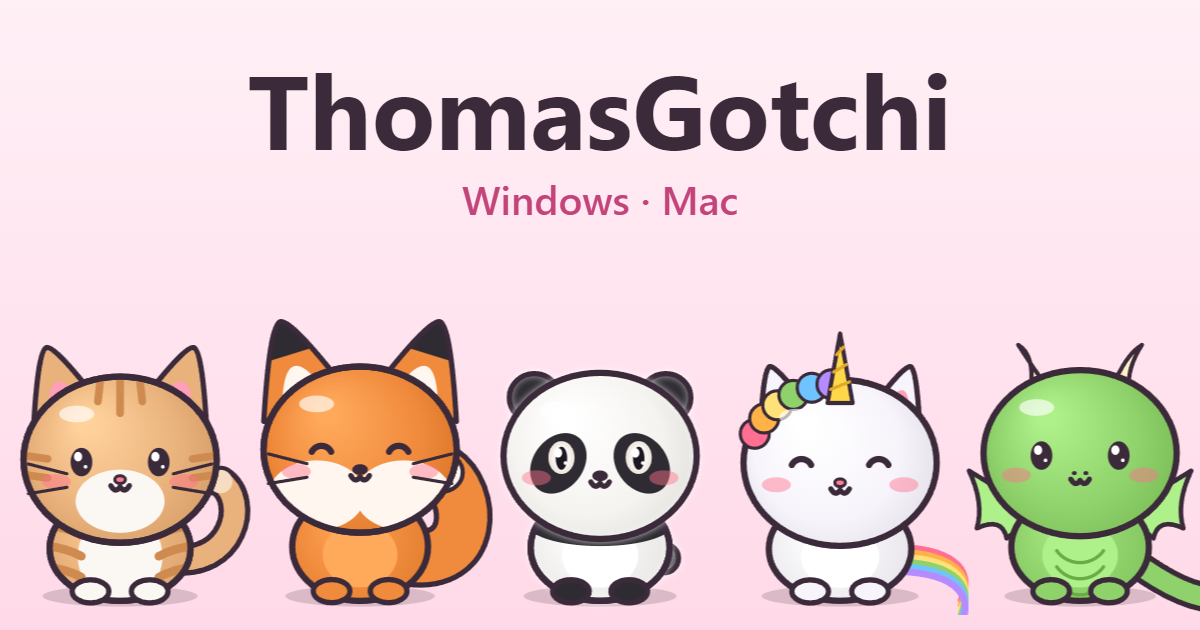
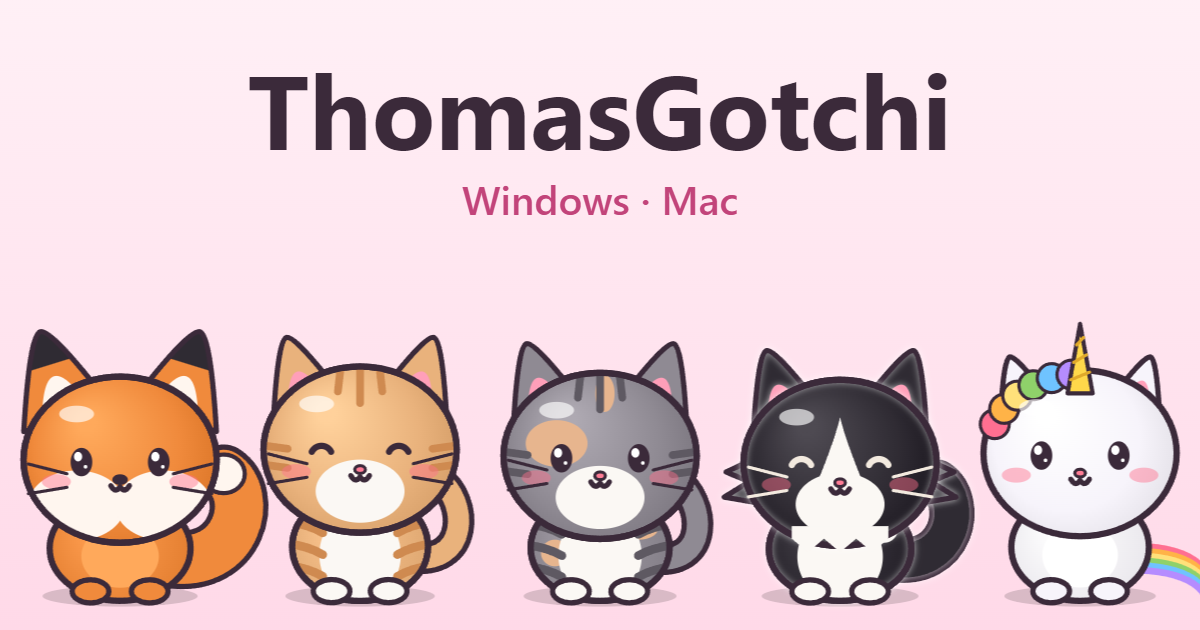
Version 2.3.2
- Menu de l'icône : « Donner un fichier à manger… » (choix dans une fenêtre) ; sur Mac, on peut aussi déposer des fichiers sur l'icône de la barre des menus
- Menu de l'icône : lien vers le site internet
- « Cacher » cache aussi les crottes, le décor de fête, la pelote et la gamelle
- Site : les chats de la maison (Simba, Snoop, Grisette) en haut de page, dans une section avec leur fiche, sur l'image de partage et dans la scène d'Halloween

Changed region(s): [[0.0, 0.5127, 1.0, 0.9651]]

diff --git a/main.js b/main.js
@@ -183,15 +183,50 @@ function anyVisible() {
   return [...pets.values()].some((p) => alive(p) && p.win.isVisible());
 }
 
+// Cachés avec les animaux : crottes, décor de fête, pelote, gamelle (y compris ceux qui apparaissent pendant ce temps)
+let hiddenByUser = false;
+
+function objectWindows() {
+  const list = [...poopWindows.values()].map((poop) => poop.win);
+  if (decor) list.push(decor.win);
+  if (yarn) list.push(yarn.win);
+  if (furniture) list.push(...Object.values(furniture).map((f) => f.win));
+  return list.filter((w) => w && !w.isDestroyed());
+}
+
 function toggleVisible() {
   const show = !anyVisible();
+  hiddenByUser = !show;
   for (const p of pets.values()) {
     if (!alive(p)) continue;
     if (show) p.win.show(); else p.win.hide();
   }
+  for (const w of objectWindows()) if (show) w.showInactive(); else w.hide();
   if (show) keepOnTop();
   buildTrayMenu();
 }
+
+// Nourrir avec des fichiers choisis dans une fenêtre, ou déposés sur l'icône (Mac) :
+// seuls leur nom et leur taille sont lus, comme pour un fichier glissé sur l'animal
+function feedFiles(p, files) {
+  if (!alive(p)) return;
+  const meals = files.map((f) => {
+    try {
+      const st = fs.statSync(f);
+      return { name: path.basename(f), size: st.size, isDir: st.isDirectory() };
+    } catch { return null; }
+  }).filter(Boolean);
+  if (!meals.length) return;
+  p.win.show();
+  p.win.webContents.send('feed-files', meals);
+}
+
+async function chooseFood(p) {
+  const r = await dialog.showOpenDialog({ title: tr('Donner un fichier à manger'), properties: ['openFile', 'multiSelections'] });
+  if (!r.canceled) feedFiles(p, r.filePaths);
+}
+
+const siteUrl = () => 'https://thomasgotchi.mirimix.fr/' + (currentLang() === 'fr' ? '' : currentLang() + '/');
 
 function openSettings(p) {
   if (!alive(p)) return;
@@ -206,15 +241,25 @@ function buildTrayMenu() {
   const settings = list.length === 1
     ? { label: tr('Réglages…'), click: () => openSettings(list[0]) }
     : { label: tr('Réglages'), submenu: list.map((p) => ({ label: p.name || tr('Œuf'), click: () => openSettings(p) })) };
+  const food = list.length === 1
+    ? { label: tr('Donner un fichier à manger…'), click: () => chooseFood(list[0]) }
+    : { label: tr('Donner un fichier à manger'), submenu: list.map((p) => ({ label: p.name || tr('Œuf'), click: () => chooseFood(p) })) };
   tray.setContextMenu(Menu.buildFromTemplate([
     { label: `ThomasGotchi v${app.getVersion()}`, enabled: false },
+    { label: tr('Site internet 🌐'), click: () => shell.openExternal(siteUrl()) },
     { type: 'separator' },
     { label: tr(anyVisible() ? 'Cacher' : 'Afficher'), click: toggleVisible },
     {
       label: tr('Ramener au coin de l\'écran'),
-      click: () => list.forEach((p, i) => { const d = defaultPosition(i); placeWindow(p, d.x, d.y); if (alive(p)) p.win.show(); }),
+      click: () => {
+        list.forEach((p, i) => { const d = defaultPosition(i); placeWindow(p, d.x, d.y); if (alive(p)) p.win.show(); });
+        hiddenByUser = false;
+        for (const w of objectWindows()) w.showInactive();
+        buildTrayMenu();
+      },
     },
     settings,
+    food,
     { label: tr('Adopter un autre animal'), enabled: list.length < MAX_PETS, click: adoptPet },
     { label: tr(yarn ? 'Ranger la pelote de laine' : 'Sortir la pelote de laine 🧶'), click: toggleYarn },
     { label: tr('Gamelle 🥣'), type: 'checkbox', checked: !!furniture, click: () => (furniture ? removeFurniture() : spawnFurniture()) },
@@ -239,6 +284,11 @@ function createTray() {
   tray = new Tray(icon);
   tray.setToolTip(`ThomasGotchi v${app.getVersion()}`);
   if (!isMac) tray.on('click', toggleVisible);
+  // Mac : des fichiers déposés sur l'icône de la barre des menus sont donnés à manger au premier animal visible
+  tray.on('drop-files', (e, files) => {
+    const p = [...pets.values()].find((x) => alive(x) && x.win.isVisible()) || [...pets.values()].find(alive);
+    feedFiles(p, files);
+  });
   buildTrayMenu();
 }
 
@@ -645,6 +695,7 @@ function createPoop(owner, id, x, y, style, kind, edge) {
     hasShadow: false,
     focusable: false,
     alwaysOnTop: true,
+    show: !hiddenByUser,
     backgroundColor: '#00000000',
     webPreferences: {
       preload: path.join(__dirname, 'preload-poop.js'),
@@ -747,6 +798,7 @@ function spawnYarn() {
     hasShadow: false,
     focusable: false,
     alwaysOnTop: true,
+    show: !hiddenByUser,
     backgroundColor: '#00000000',
     webPreferences: {
       preload: path.join(__dirname, 'preload-yarn.js'),
@@ -860,7 +912,7 @@ function updateDecor() {
   win.once('ready-to-show', () => {
     if (win.isDestroyed()) return;
     win.setBackgroundColor('#00000000');
-    win.showInactive();
+    if (!hiddenByUser) win.showInactive();
   });
   win.loadFile(path.join(__dirname, 'src', 'decor.html'), { query: { kind } });
   decor = { win, kind };
@@ -901,7 +953,7 @@ function createFurnitureWindow(kind, x) {
     x: Math.round(Math.min(Math.max(x - w / 2, wa.x), wa.x + wa.width - w)),
     y: wa.y + wa.height - h,
     transparent: true, frame: false, resizable: false, maximizable: false, minimizable: false, fullscreenable: false,
-    skipTaskbar: true, hasShadow: false, focusable: false, alwaysOnTop: true, backgroundColor: '#00000000',
+    skipTaskbar: true, hasShadow: false, focusable: false, alwaysOnTop: true, show: !hiddenByUser, backgroundColor: '#00000000',
     webPreferences: { preload: path.join(__dirname, 'preload-furniture.js'), contextIsolation: true, nodeIntegration: false },
   });
   win.setAlwaysOnTop(true, 'floating');

diff --git a/site/style.css b/site/style.css
@@ -162,19 +162,21 @@ img { max-width: 100%; }
 .animal img { width: 100%; aspect-ratio: 152 / 160; object-fit: contain; }
 .animal figcaption { font-family: "Fredoka", sans-serif; font-weight: 600; font-size: 18px; }
 
-.house-cats {
-  display: flex;
-  align-items: center;
-  gap: 8px;
-  max-width: 760px;
-  margin: 36px auto 0;
-  padding: 14px 22px;
+/* Les chats de la maison : une petite fiche pour chacun */
+.house-title { margin: 56px 0 6px; text-align: center; font-size: 28px; }
+.house-cats { display: grid; grid-template-columns: repeat(3, 1fr); gap: 18px; max-width: 860px; margin: 0 auto; }
+.house-cat {
+  padding: 16px 18px 20px;
+  text-align: center;
   background: var(--card);
   border: 3px dashed rgba(59, 42, 58, .35);
   border-radius: var(--radius);
+  transition: transform .2s;
 }
-.house-cats img { width: 72px; }
-.house-cats p { margin: 0 0 0 10px; }
+.house-cat:hover { transform: translateY(-4px) rotate(1.5deg); }
+.house-cat img { width: 70%; aspect-ratio: 152 / 160; object-fit: contain; }
+.house-cat h4 { margin: 6px 0 4px; font-family: "Fredoka", sans-serif; font-size: 24px; }
+.house-cat p { margin: 0; color: var(--ink-soft); font-size: 16px; }
 
 .moments { display: grid; grid-template-columns: repeat(4, 1fr); gap: 18px; }
 .moment {
@@ -243,8 +245,8 @@ code { padding: 2px 6px; font-size: 14px; background: #fff; border: 1px solid rg
   body { font-size: 16px; }
   .features, .moments { grid-template-columns: 1fr; }
   .animals { grid-template-columns: repeat(3, 1fr); }
-  .house-cats { flex-wrap: wrap; justify-content: center; text-align: center; }
-  .house-cats p { margin: 8px 0 0; }
+  .house-cats { grid-template-columns: 1fr; }
+  .house-cat img { width: 50%; }
   .btn { width: 100%; justify-content: center; }
   .top .btn { width: auto; }
   .brand { font-size: 20px; }

diff --git a/scripts/render.js b/scripts/render.js
@@ -32,7 +32,7 @@ window.renderAll = () => {
   out['chat-grisette'] = renderPng(view('chat', 'grisette'), PET);
   // Scènes complètes (décor compris)
   out['scene-pluie'] = renderPng(view('chat', 'simba', { weather: 'rain', gear: 'umbrella', t: 2.1 }));
-  out['scene-halloween'] = renderPng(view('chat', 'noir', { decor: 'halloween', decorBack: true, accessory: 'sorciere', night: true, t: 3.2 }));
+  out['scene-halloween'] = renderPng(view('chat', 'grisette', { decor: 'halloween', decorBack: true, accessory: 'sorciere', night: true, t: 3.2 }));
   out['scene-noel'] = renderPng(view('renard', 'orange', { decor: 'snow', decorBack: true, accessory: 'noel', t: 4 }));
   out['scene-danse'] = renderPng(view('licorne', 'blanc', { anim: 'dance', animT: 0.35, eyes: 'joy', mouth: 'open', t: 5 }));
   out['scene-dodo'] = renderPng(view('panda', 'blanc', { mood: 'sleep', eyes: 'closed', mouth: 'o', nightcap: true, weather: 'clear', isDay: false, t: 6 }));
@@ -62,7 +62,8 @@ function renderShare() {
   ctx.fillStyle = '#c2447a';
   ctx.fillText('Windows · Mac', 600, 215);
   // Une rangée d'animaux, posés sur la même ligne
-  const pets = [['chat', 'simba'], ['renard', 'orange'], ['panda', 'blanc'], ['licorne', 'blanc'], ['dragon', 'vert']];
+  // Les trois chats de la maison au milieu
+  const pets = [['renard', 'orange'], ['chat', 'simba'], ['chat', 'snoop'], ['chat', 'grisette'], ['licorne', 'blanc']];
   // Chaque animal est dessiné à part (le moteur efface sa zone), puis collé
   const scale = 2.1;
   const wide = { x: PET.x - 20, y: PET.y - 30, w: PET.w + 40, h: PET.h + 30 }; // marge pour queues et oreilles

diff --git a/src/app.js b/src/app.js
@@ -762,6 +762,13 @@ document.addEventListener('drop', (e) => {
     const file = item.getAsFile();
     if (file) meals.push({ name: file.name, size: file.size, isDir: !!(entry && entry.isDirectory) });
   }
+  eat(meals);
+});
+
+// Fichiers choisis depuis le menu de l'icône (ou déposés sur l'icône, sur Mac)
+desk.onFeedFiles((meals) => { if (state) eat(meals); });
+
+function eat(meals) {
   meals.slice(0, 5).forEach((meal, i) => {
     setTimeout(() => {
       if (state.paused) return say('Je suis en vacances 🏖');
@@ -774,7 +781,7 @@ document.addEventListener('drop', (e) => {
     }, i * 2000);
   });
   if (meals.length > 5) setTimeout(() => say('Ouf, j\'ai assez mangé pour l\'instant !'), 10000);
-});
+}
 
 // ---------- Voix : il dit le prénom de son maître ou de sa maîtresse ----------
 

diff --git a/preload.js b/preload.js
@@ -19,6 +19,7 @@ contextBridge.exposeInMainWorld('desk', {
   setLogin: (on) => ipcRenderer.invoke('set-login', on),
   quit: () => ipcRenderer.send('quit'),
   onMenu: (cb) => ipcRenderer.on('menu', (_e, action) => cb(action)),
+  onFeedFiles: (cb) => ipcRenderer.on('feed-files', (_e, meals) => cb(meals)),
   poopAdd: (id, side, style, kind, edge) => ipcRenderer.invoke('poop-add', id, side, style, kind, edge),
   poopRestore: (spots, style) => ipcRenderer.invoke('poop-restore', spots, style),
   poopClearAll: () => ipcRenderer.send('poop-clear-all'),

diff --git a/src/locales/es.js b/src/locales/es.js
@@ -328,6 +328,9 @@
     'Hop, là-haut !': '¡Hop, ahí arriba!',
     'ThomasGotchi': 'ThomasGotchi',
     'English': 'English', 'Español': 'Español', 'Français': 'Français', 'Italiano': 'Italiano',
+    'Donner un fichier à manger': 'Dar un archivo de comer',
+    'Donner un fichier à manger…': 'Dar un archivo de comer…',
+    'Site internet 🌐': 'Sitio web 🌐',
   };
   if (typeof module !== 'undefined') module.exports = L;
   else (root.LOCALES = root.LOCALES || {}).es = L;

diff --git a/src/locales/it.js b/src/locales/it.js
@@ -328,6 +328,9 @@
     'Hop, là-haut !': 'Hop, lassù!',
     'ThomasGotchi': 'ThomasGotchi',
     'English': 'English', 'Español': 'Español', 'Français': 'Français', 'Italiano': 'Italiano',
+    'Donner un fichier à manger': 'Dare un file da mangiare',
+    'Donner un fichier à manger…': 'Dare un file da mangiare…',
+    'Site internet 🌐': 'Sito web 🌐',
   };
   if (typeof module !== 'undefined') module.exports = L;
   else (root.LOCALES = root.LOCALES || {}).it = L;

diff --git a/src/locales/en.js b/src/locales/en.js
@@ -328,6 +328,9 @@
     'Hop, là-haut !': 'Hop, up there!',
     'ThomasGotchi': 'ThomasGotchi',
     'English': 'English', 'Español': 'Español', 'Français': 'Français', 'Italiano': 'Italiano',
+    'Donner un fichier à manger': 'Feed a file',
+    'Donner un fichier à manger…': 'Feed a file…',
+    'Site internet 🌐': 'Website 🌐',
   };
   if (typeof module !== 'undefined') module.exports = L;
   else (root.LOCALES = root.LOCALES || {}).en = L;

diff --git a/site/index.php b/site/index.php
@@ -25,6 +25,13 @@ $features = [
     ['🎁', 'Gratuit, sans pub', 'Pas de compte, pas de publicité. Il fonctionne même sans connexion (sauf la météo).'],
 ];
 
+// Les trois chats de la maison, modèles de pelage dans l'application
+$houseCats = [
+    ['simba', 'Simba', 'Le roux de la maison : pelage orange rayé et bouille ronde.'],
+    ['snoop', 'Snoop', 'Une tigrée grise aux rayures bien dessinées.'],
+    ['grisette', 'Grisette', 'Noire et blanche, avec son petit masque.'],
+];
+
 $moments = [
     ['scene-pluie', 'Il sort son parapluie quand il pleut chez toi'],
     ['scene-halloween', 'Citrouille et chauves-souris pour Halloween'],
@@ -160,8 +167,8 @@ $jsonLd = [
         <div class="window-bar"><i></i><i></i><i></i></div>
         <div class="window-body">
           <img class="pet p1" src="<?= $asset('img/chat-simba.png') ?>" alt="">
-          <img class="pet p2" src="<?= $asset('img/animal-licorne.png') ?>" alt="">
-          <img class="pet p3" src="<?= $asset('img/animal-renard.png') ?>" alt="">
+          <img class="pet p2" src="<?= $asset('img/chat-snoop.png') ?>" alt="">
+          <img class="pet p3" src="<?= $asset('img/chat-grisette.png') ?>" alt="">
           <span class="bubble"><?= $h(tt('Miam, un PDF ! 😋')) ?></span>
         </div>
       </div>
@@ -192,11 +199,16 @@ $jsonLd = [
         </figure>
       <?php endforeach; ?>
     </div>
+    <h3 class="house-title"><?= $h(tt('Les chats de la maison')) ?></h3>
+    <p class="section-lead"><?= $h(tt('Trois modèles dessinés d\'après les vrais chats du créateur. Choisis leur pelage dans les réglages pour adopter le même !')) ?></p>
     <div class="house-cats">
-      <img src="<?= $asset('img/chat-simba.png') ?>" alt="Simba">
-      <img src="<?= $asset('img/chat-snoop.png') ?>" alt="Snoop">
-      <img src="<?= $asset('img/chat-grisette.png') ?>" alt="Grisette">
-      <p><?= tt('Et les modèles <strong>Simba</strong>, <strong>Snoop</strong> et <strong>Grisette</strong>, dessinés d\'après de vrais chats de la maison.') ?></p>
+      <?php foreach ($houseCats as [$id, $name, $text]): ?>
+        <article class="house-cat">
+          <img src="<?= $asset('img/chat-' . $id . '.png') ?>" alt="<?= $h($name) ?>" loading="lazy">
+          <h4><?= $h($name) ?></h4>
+          <p><?= $h(tt($text)) ?></p>
+        </article>
+      <?php endforeach; ?>
     </div>
   </section>
 

diff --git a/site/lang/es.php b/site/lang/es.php
@@ -52,8 +52,6 @@ return [
     'Pingouin' => 'Pingüino', 'Hamster' => 'Hámster', 'Koala' => 'Koala', 'Grenouille' => 'Rana', 'Licorne' => 'Unicornio',
     'Dragon' => 'Dragón', 'Loup' => 'Lobo', 'Lion' => 'León', 'Tigre' => 'Tigre', 'Cochon' => 'Cerdito', 'Mouton' => 'Oveja',
     'Souris' => 'Ratón', 'Hibou' => 'Búho', 'Singe' => 'Mono', 'Raton laveur' => 'Mapache',
-    'Et les modèles <strong>Simba</strong>, <strong>Snoop</strong> et <strong>Grisette</strong>, dessinés d\'après de vrais chats de la maison.' =>
-        'Y los modelos <strong>Simba</strong>, <strong>Snoop</strong> y <strong>Grisette</strong>, dibujados a partir de gatos reales de la casa.',
 
     'Une vie pleine de surprises' => 'Una vida llena de sorpresas',
     'Il sort son parapluie quand il pleut chez toi' => 'Saca su paraguas cuando llueve donde vives',
@@ -105,4 +103,9 @@ return [
     'code source' => 'código fuente',
     'Déjà {n} téléchargements !' => '¡Ya {n} descargas!',
     'Déjà {n} téléchargement !' => '¡Ya {n} descarga!',
+    'Les chats de la maison' => 'Los gatos de la casa',
+    'Trois modèles dessinés d\'après les vrais chats du créateur. Choisis leur pelage dans les réglages pour adopter le même !' => 'Tres modelos dibujados a partir de los gatos reales del creador. ¡Elige su pelaje en los ajustes para adoptar uno igual!',
+    'Le roux de la maison : pelage orange rayé et bouille ronde.' => 'El pelirrojo de la casa: pelaje naranja a rayas y carita redonda.',
+    'Une tigrée grise aux rayures bien dessinées.' => 'Una atigrada gris de rayas bien marcadas.',
+    'Noire et blanche, avec son petit masque.' => 'Blanca y negra, con su pequeño antifaz.',
 ];

diff --git a/site/lang/it.php b/site/lang/it.php
@@ -52,8 +52,6 @@ return [
     'Pingouin' => 'Pinguino', 'Hamster' => 'Criceto', 'Koala' => 'Koala', 'Grenouille' => 'Rana', 'Licorne' => 'Unicorno',
     'Dragon' => 'Drago', 'Loup' => 'Lupo', 'Lion' => 'Leone', 'Tigre' => 'Tigre', 'Cochon' => 'Maialino', 'Mouton' => 'Pecora',
     'Souris' => 'Topolino', 'Hibou' => 'Gufo', 'Singe' => 'Scimmia', 'Raton laveur' => 'Procione',
-    'Et les modèles <strong>Simba</strong>, <strong>Snoop</strong> et <strong>Grisette</strong>, dessinés d\'après de vrais chats de la maison.' =>
-        'E i modelli <strong>Simba</strong>, <strong>Snoop</strong> e <strong>Grisette</strong>, disegnati ispirandosi a veri gatti di casa.',
 
     'Une vie pleine de surprises' => 'Una vita piena di sorprese',
     'Il sort son parapluie quand il pleut chez toi' => 'Tira fuori l\'ombrello quando piove dove abiti',
@@ -105,4 +103,9 @@ return [
     'code source' => 'codice sorgente',
     'Déjà {n} téléchargements !' => 'Già {n} download!',
     'Déjà {n} téléchargement !' => 'Già {n} download!',
+    'Les chats de la maison' => 'I gatti di casa',
+    'Trois modèles dessinés d\'après les vrais chats du créateur. Choisis leur pelage dans les réglages pour adopter le même !' => 'Tre modelli disegnati dai veri gatti del creatore. Scegli il loro mantello nelle impostazioni per adottarne uno uguale!',
+    'Le roux de la maison : pelage orange rayé et bouille ronde.' => 'Il rosso di casa: mantello arancione tigrato e musetto tondo.',
+    'Une tigrée grise aux rayures bien dessinées.' => 'Una tigrata grigia dalle strisce ben disegnate.',
+    'Noire et blanche, avec son petit masque.' => 'Bianca e nera, con la sua mascherina.',
 ];

diff --git a/site/lang/en.php b/site/lang/en.php
@@ -52,8 +52,6 @@ return [
     'Pingouin' => 'Penguin', 'Hamster' => 'Hamster', 'Koala' => 'Koala', 'Grenouille' => 'Frog', 'Licorne' => 'Unicorn',
     'Dragon' => 'Dragon', 'Loup' => 'Wolf', 'Lion' => 'Lion', 'Tigre' => 'Tiger', 'Cochon' => 'Pig', 'Mouton' => 'Sheep',
     'Souris' => 'Mouse', 'Hibou' => 'Owl', 'Singe' => 'Monkey', 'Raton laveur' => 'Raccoon',
-    'Et les modèles <strong>Simba</strong>, <strong>Snoop</strong> et <strong>Grisette</strong>, dessinés d\'après de vrais chats de la maison.' =>
-        'And the <strong>Simba</strong>, <strong>Snoop</strong> and <strong>Grisette</strong> models, drawn after real cats from home.',
 
     'Une vie pleine de surprises' => 'A life full of surprises',
     'Il sort son parapluie quand il pleut chez toi' => 'It takes out its umbrella when it rains where you live',
@@ -105,4 +103,9 @@ return [
     'code source' => 'source code',
     'Déjà {n} téléchargements !' => 'Already {n} downloads!',
     'Déjà {n} téléchargement !' => 'Already {n} download!',
+    'Les chats de la maison' => 'The house cats',
+    'Trois modèles dessinés d\'après les vrais chats du créateur. Choisis leur pelage dans les réglages pour adopter le même !' => 'Three models drawn from the creator\'s real cats. Pick their coat in the settings to adopt the same one!',
+    'Le roux de la maison : pelage orange rayé et bouille ronde.' => 'The ginger of the house: striped orange coat and a round little face.',
+    'Une tigrée grise aux rayures bien dessinées.' => 'A grey tabby with neatly drawn stripes.',
+    'Noire et blanche, avec son petit masque.' => 'Black and white, with her little mask.',
 ];
